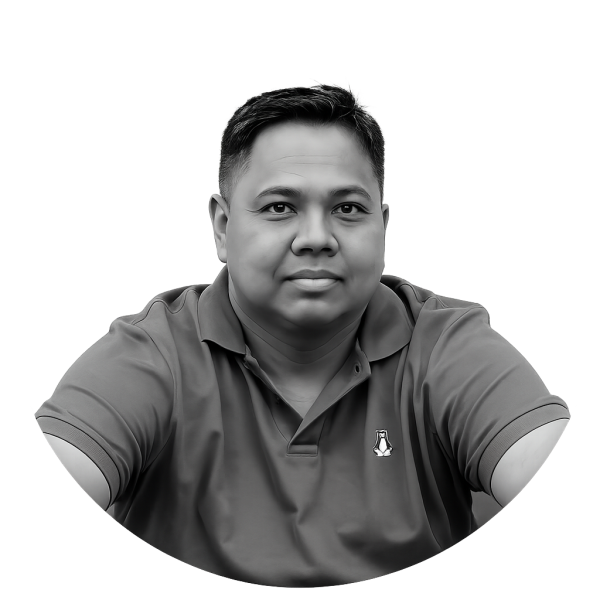
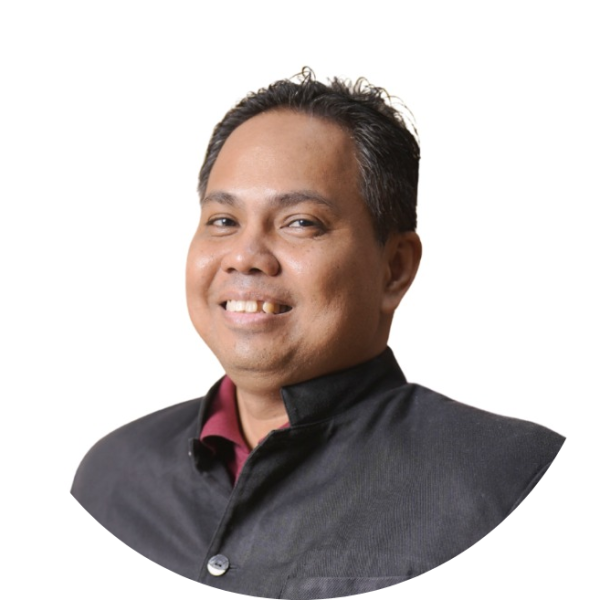
update budi portrait + add cremation schedule

diff --git a/database/seeders/BudiSantosoPageSeeder.php b/database/seeders/BudiSantosoPageSeeder.php
@@ -32,7 +32,7 @@ class BudiSantosoPageSeeder extends Seeder
                 'mother_name' => 'Tuminah',
                 'sibling_name' => 'Narti',
                 'funeral_resting_place' => 'Rumah Duka Adijasa'."\n".'Ruang 32',
-                'burial_information' => 'Diperabukan ke Eka Praya'."\n".'Sabtu, 4 Juli 2026',
+                'burial_information' => 'Diperabukan ke Eka Praya'."\n".'Sabtu, 4 Juli 2026 (12.15)',
                 'schedule_closing_coffin' => 'Kamis, 2 Juli 2026 (15.00)',
                 'schedule_comfort_service' => 'Jumat, 3 Juli 2026 (18.30)',
                 'schedule_departure_service' => 'Sabtu, 4 Juli 2026 (11.30)',
